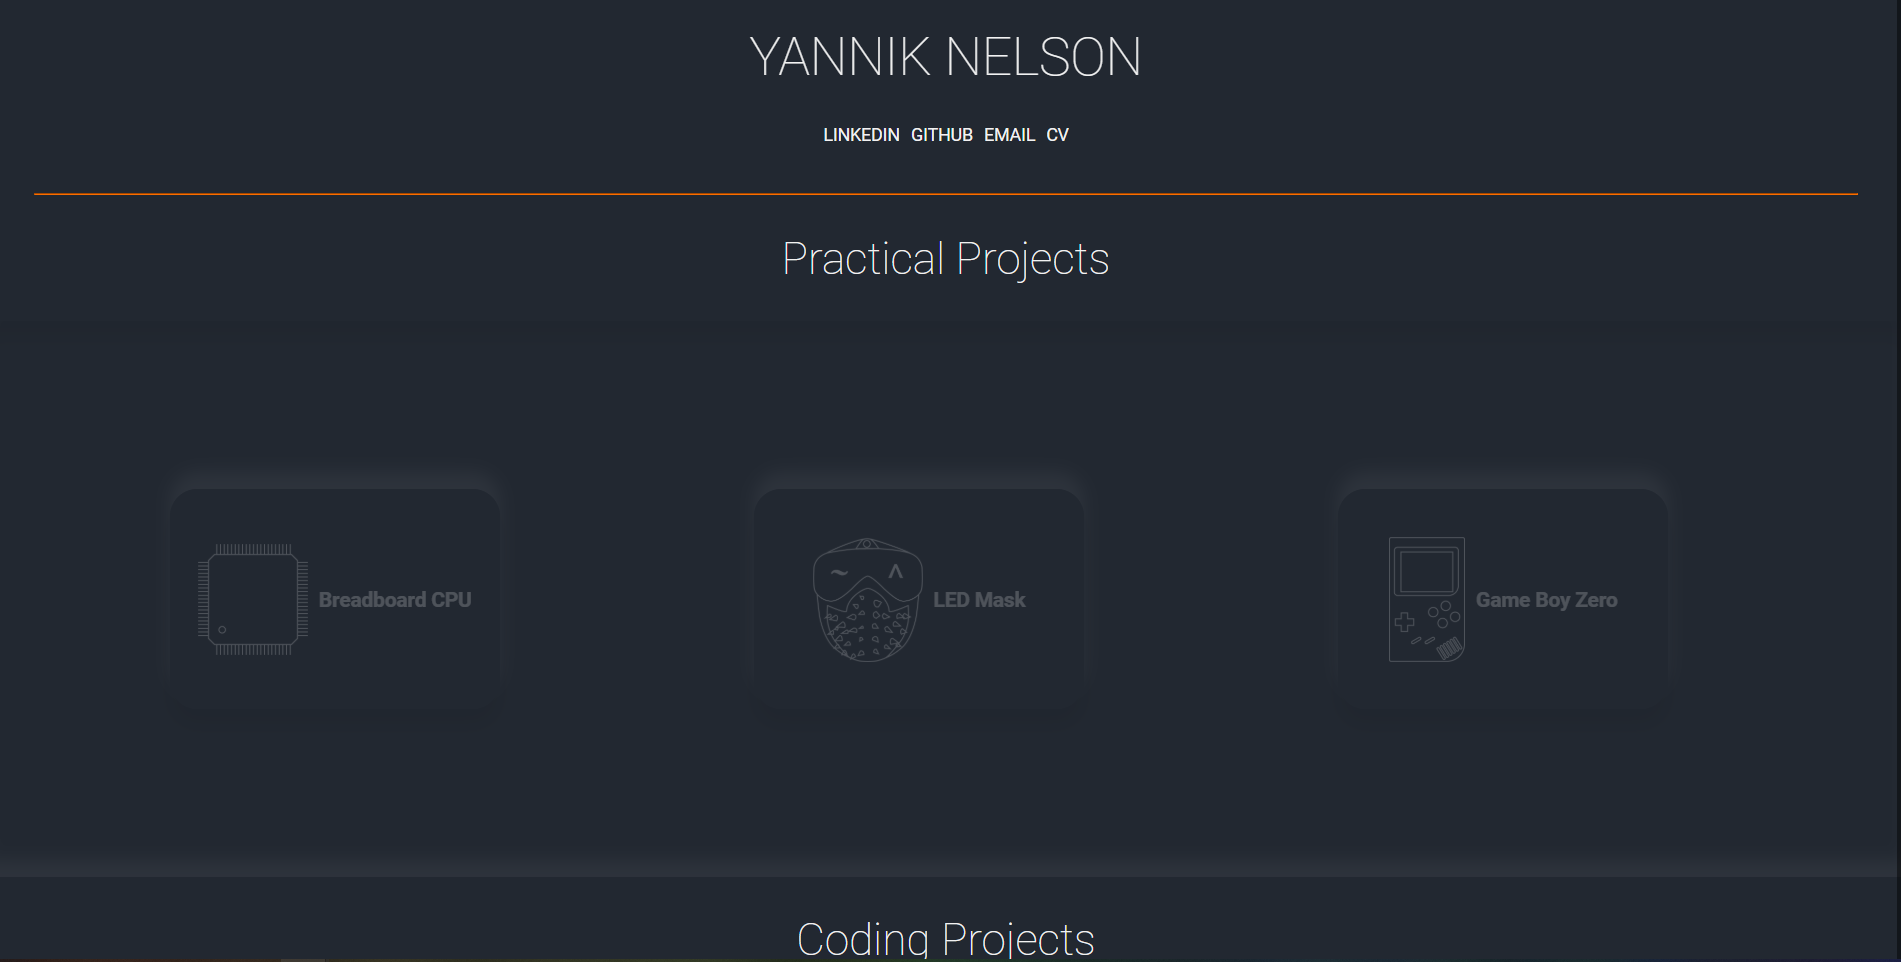
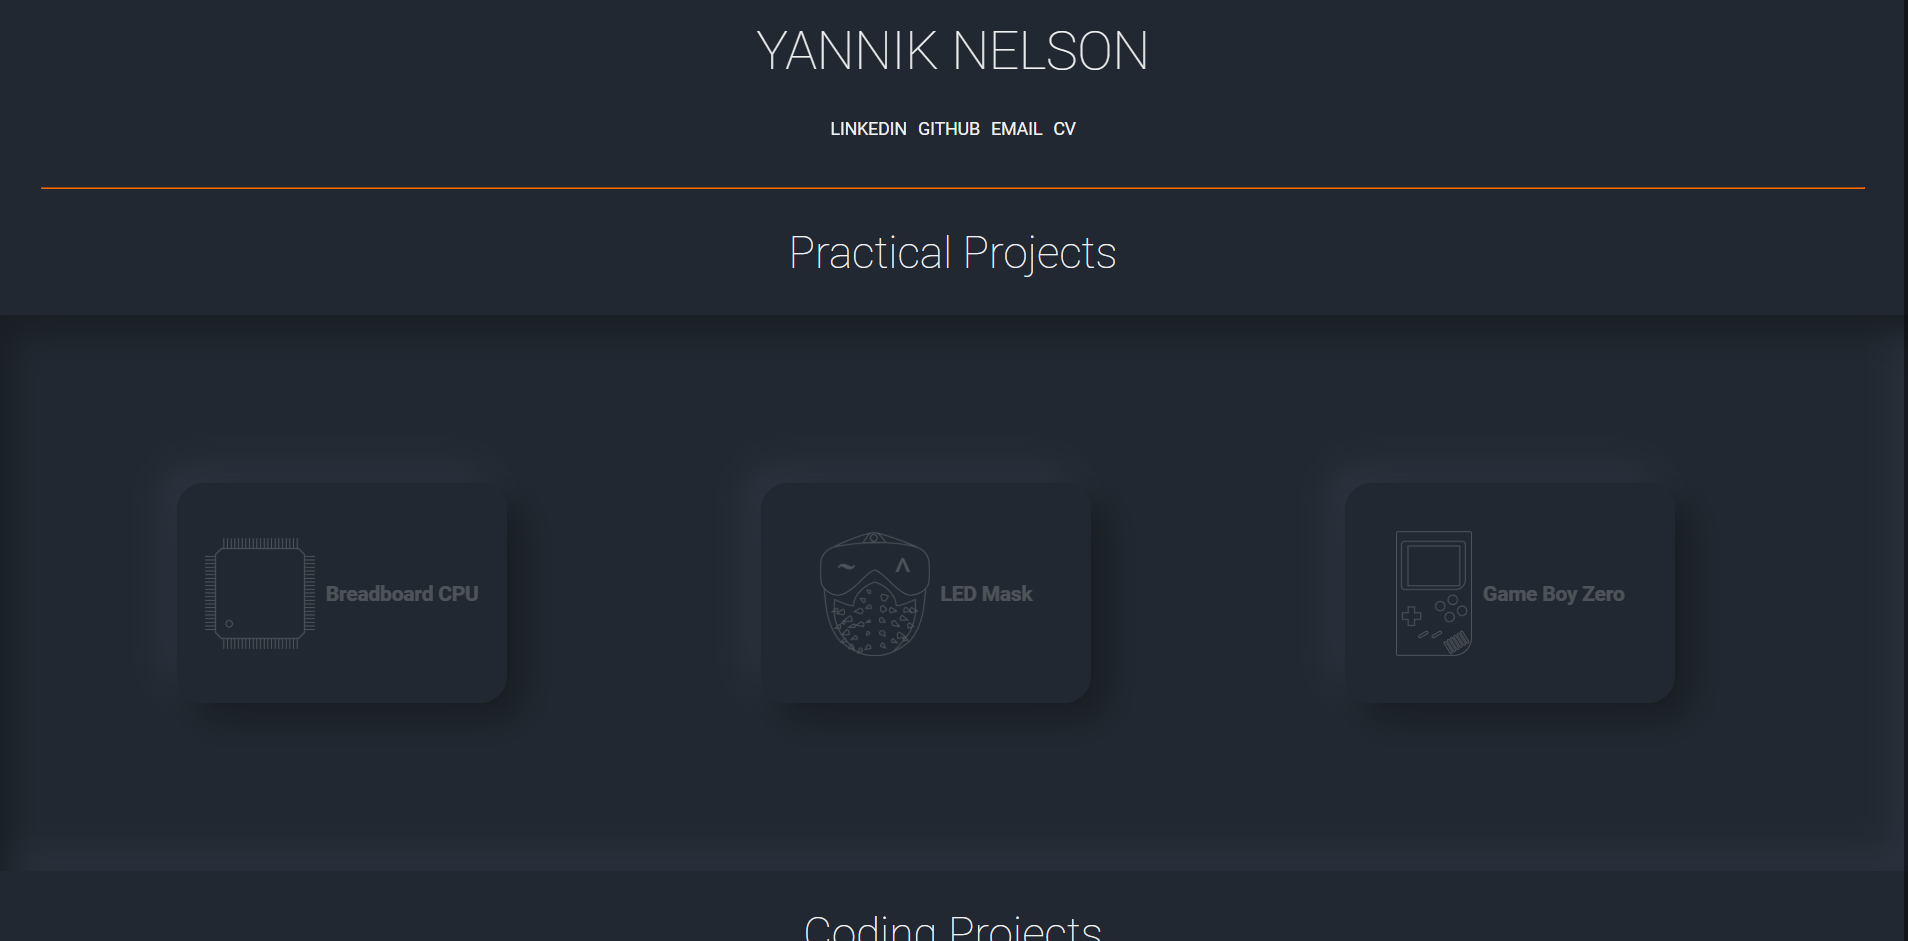
Changed Neumorphism slightly

diff --git a/CSS/main.min.css b/CSS/main.min.css
@@ -1,2 +1,2 @@
-@import url("https://fonts.googleapis.com/css2?family=Roboto:ital,wght@0,100;0,300;0,400;0,500;0,700;0,900;1,100;1,300;1,400;1,500;1,700;1,900&display=swap");*{-webkit-box-sizing:border-box;box-sizing:border-box}body{margin:0;padding:0;background-color:#222831;color:#f2f2f2;font-family:Roboto, sans-serif}::-webkit-scrollbar{width:0}#scrollbar{position:fixed;right:0;top:0;width:0.5rem;height:100%;background:#00000075}#scrollThumb{position:fixed;right:0;top:0;width:0.5rem;height:100%;background:#f96d00}#scrollThumb:before{content:"";position:absolute;left:0;top:0;width:100%;height:100%;background:#f96d00;-webkit-filter:blur(10px);filter:blur(10px)}h1,h2{font-weight:100}h1{font-size:3em}h2{font-size:2.5em}header .header-container{text-transform:uppercase;text-align:center;display:-webkit-box;display:-ms-flexbox;display:flex;-webkit-box-pack:center;-ms-flex-pack:center;justify-content:center;-webkit-box-align:end;-ms-flex-align:end;align-items:flex-end;padding:5vh;padding-top:0}header .header-container .content{padding-top:0}header .header-container .content h1 a{text-decoration:none;color:inherit}header .header-container .content .links{list-style-type:none;display:-webkit-box;display:-ms-flexbox;display:flex;-webkit-box-pack:center;-ms-flex-pack:center;justify-content:center;margin-top:1rem;width:100%}header .header-container .content .links a{text-align:center;color:#f2f2f2;text-decoration:none;padding:0 5px 0 5px}header hr{background-color:#000;margin:0 5vh 0vh 5vh;border-color:#f96d00}main{width:100%}.practical-container{display:-webkit-box;display:-ms-flexbox;display:flex;-webkit-box-pack:space-evenly;-ms-flex-pack:space-evenly;justify-content:space-evenly;-webkit-box-align:center;-ms-flex-align:center;align-items:center;-ms-flex-wrap:wrap;flex-wrap:wrap;padding:37.5px 0 37.5px 0;font-size:16px;width:100%;-webkit-box-shadow:inset 0 -15px 15px rgba(255,255,255,0.05),inset 0 15px 15px rgba(0,0,0,0.05);box-shadow:inset 0 -15px 15px rgba(255,255,255,0.05),inset 0 15px 15px rgba(0,0,0,0.05);background-color:#222831}.coding-container{display:-webkit-box;display:-ms-flexbox;display:flex;-webkit-box-orient:horizontal;-webkit-box-direction:normal;-ms-flex-direction:row;flex-direction:row;-ms-flex-wrap:wrap;flex-wrap:wrap;-webkit-box-pack:space-evenly;-ms-flex-pack:space-evenly;justify-content:space-evenly;-webkit-box-align:center;-ms-flex-align:center;align-items:center;padding:37.5px 0 37.5px 0;font-size:16px;width:100%;-webkit-box-shadow:inset 0 -15px 15px rgba(255,255,255,0.05),inset 0 15px 15px rgba(0,0,0,0.05);box-shadow:inset 0 -15px 15px rgba(255,255,255,0.05),inset 0 15px 15px rgba(0,0,0,0.05);background-color:#222831}.coding-container .coding-row{display:-webkit-box;display:-ms-flexbox;display:flex;width:100%;-webkit-box-pack:space-evenly;-ms-flex-pack:space-evenly;justify-content:space-evenly;-webkit-box-align:center;-ms-flex-align:center;align-items:center}.under-construction{width:300px;height:200px;position:absolute;z-index:2}.card{-ms-flex-preferred-size:20%;flex-basis:20%;position:relative;margin:15px}.card .face{width:300px;height:200px;-webkit-transition:0.5s;transition:0.5s;border-radius:25px}.card .face.card-top{position:relative;color:#fff;background:#222831;display:-webkit-box;display:-ms-flexbox;display:flex;-webkit-box-pack:center;-ms-flex-pack:center;justify-content:center;-webkit-box-align:center;-ms-flex-align:center;align-items:center;z-index:1;-webkit-transform:translateY(100px);transform:translateY(100px);overflow:hidden}.card .face.card-top .content{display:-webkit-box;display:-ms-flexbox;display:flex;-webkit-box-pack:center;-ms-flex-pack:center;justify-content:center;-webkit-box-align:center;-ms-flex-align:center;align-items:center;opacity:0.2;-webkit-transition:0.2s;transition:0.2s;text-align:left}.card .face.card-top .content img{max-width:100px;max-height:113.84px}.card .face.card-top .content h3{padding-left:10px;max-width:150px;text-align:center}.card .face.card-descrip{position:relative;background:#222831;display:-webkit-box;display:-ms-flexbox;display:flex;-webkit-box-orient:vertical;-webkit-box-direction:normal;-ms-flex-direction:column;flex-direction:column;-webkit-box-pack:center;-ms-flex-pack:center;justify-content:center;-webkit-box-align:center;-ms-flex-align:center;align-items:center;padding:20px;-webkit-box-sizing:border-box;box-sizing:border-box;-webkit-transform:translateY(-100px);transform:translateY(-100px);color:#f2f2f2}.card .face.card-descrip .cardshadow{width:300px;height:200px;-webkit-transition:0.5s;transition:0.5s;position:absolute;border-radius:25px;-webkit-box-shadow:0 -15px 15px rgba(255,255,255,0.05),0 15px 15px rgba(0,0,0,0.05);box-shadow:0 -15px 15px rgba(255,255,255,0.05),0 15px 15px rgba(0,0,0,0.05);z-index:-1}.card .face.card-descrip p{margin:0;padding:0;opacity:0.5}.card .face.card-descrip a{margin:10px 0 0;display:inline-block;text-decoration:none;color:#f2f2f2;font-weight:900;padding:5px;border:1px solid #f2f2f2;opacity:0.5}.card .face.card-descrip a:hover{background:#333}.card:hover .face.card-top{opacity:0}.card:hover .face.card-top .content{opacity:0}.card:hover .face.card-descrip .cardshadow{-webkit-box-shadow:inset 0 -15px 15px rgba(255,255,255,0.05),inset 0 15px 15px rgba(0,0,0,0.05);box-shadow:inset 0 -15px 15px rgba(255,255,255,0.05),inset 0 15px 15px rgba(0,0,0,0.05)}
+@import url("https://fonts.googleapis.com/css2?family=Roboto:ital,wght@0,100;0,300;0,400;0,500;0,700;0,900;1,100;1,300;1,400;1,500;1,700;1,900&display=swap");*{-webkit-box-sizing:border-box;box-sizing:border-box}body{margin:0;padding:0;background-color:#222831;color:#f2f2f2;font-family:Roboto, sans-serif}::-webkit-scrollbar{width:0}#scrollbar{position:fixed;right:0;top:0;width:0.5rem;height:100%;background:#00000075}#scrollThumb{position:fixed;right:0;top:0;width:0.5rem;height:100%;background:#f96d00}#scrollThumb:before{content:"";position:absolute;left:0;top:0;width:100%;height:100%;background:#f96d00;-webkit-filter:blur(10px);filter:blur(10px)}h1,h2{font-weight:100}h1{font-size:3em}h2{font-size:2.5em}header .header-container{text-transform:uppercase;text-align:center;display:-webkit-box;display:-ms-flexbox;display:flex;-webkit-box-pack:center;-ms-flex-pack:center;justify-content:center;-webkit-box-align:end;-ms-flex-align:end;align-items:flex-end;padding:5vh;padding-top:0}header .header-container .content{padding-top:0}header .header-container .content h1 a{text-decoration:none;color:inherit}header .header-container .content .links{list-style-type:none;display:-webkit-box;display:-ms-flexbox;display:flex;-webkit-box-pack:center;-ms-flex-pack:center;justify-content:center;margin-top:1rem;width:100%}header .header-container .content .links a{text-align:center;color:#f2f2f2;text-decoration:none;padding:0 5px 0 5px}header hr{background-color:#000;margin:0 5vh 0vh 5vh;border-color:#f96d00}main{width:100%}.practical-container{display:-webkit-box;display:-ms-flexbox;display:flex;-webkit-box-pack:space-evenly;-ms-flex-pack:space-evenly;justify-content:space-evenly;-webkit-box-align:center;-ms-flex-align:center;align-items:center;-ms-flex-wrap:wrap;flex-wrap:wrap;padding:37.5px 0 37.5px 0;font-size:16px;width:100%;-webkit-box-shadow:inset 15px 15px 30px #181d23,inset -15px -15px 30px #2c333f;box-shadow:inset 15px 15px 30px #181d23,inset -15px -15px 30px #2c333f;background-color:#222831}.coding-container{display:-webkit-box;display:-ms-flexbox;display:flex;-webkit-box-orient:horizontal;-webkit-box-direction:normal;-ms-flex-direction:row;flex-direction:row;-ms-flex-wrap:wrap;flex-wrap:wrap;-webkit-box-pack:space-evenly;-ms-flex-pack:space-evenly;justify-content:space-evenly;-webkit-box-align:center;-ms-flex-align:center;align-items:center;padding:37.5px 0 37.5px 0;font-size:16px;width:100%;-webkit-box-shadow:inset 15px 15px 30px #181d23,inset -15px -15px 30px #2c333f;box-shadow:inset 15px 15px 30px #181d23,inset -15px -15px 30px #2c333f;background-color:#222831}.coding-container .coding-row{display:-webkit-box;display:-ms-flexbox;display:flex;width:100%;-webkit-box-pack:space-evenly;-ms-flex-pack:space-evenly;justify-content:space-evenly;-webkit-box-align:center;-ms-flex-align:center;align-items:center}.under-construction{width:300px;height:200px;position:absolute;z-index:2}.card{-ms-flex-preferred-size:20%;flex-basis:20%;position:relative;margin:15px}.card .face{width:300px;height:200px;-webkit-transition:0.5s;transition:0.5s;border-radius:25px}.card .face.card-top{position:relative;color:#fff;background:#222831;display:-webkit-box;display:-ms-flexbox;display:flex;-webkit-box-pack:center;-ms-flex-pack:center;justify-content:center;-webkit-box-align:center;-ms-flex-align:center;align-items:center;z-index:1;-webkit-transform:translateY(100px);transform:translateY(100px);overflow:hidden}.card .face.card-top .content{display:-webkit-box;display:-ms-flexbox;display:flex;-webkit-box-pack:center;-ms-flex-pack:center;justify-content:center;-webkit-box-align:center;-ms-flex-align:center;align-items:center;opacity:0.2;-webkit-transition:0.2s;transition:0.2s;text-align:left}.card .face.card-top .content img{max-width:100px;max-height:113.84px}.card .face.card-top .content h3{padding-left:10px;max-width:150px;text-align:center}.card .face.card-descrip{position:relative;background:#222831;display:-webkit-box;display:-ms-flexbox;display:flex;-webkit-box-orient:vertical;-webkit-box-direction:normal;-ms-flex-direction:column;flex-direction:column;-webkit-box-pack:center;-ms-flex-pack:center;justify-content:center;-webkit-box-align:center;-ms-flex-align:center;align-items:center;padding:20px;-webkit-box-sizing:border-box;box-sizing:border-box;-webkit-transform:translateY(-100px);transform:translateY(-100px);color:#f2f2f2}.card .face.card-descrip .cardshadow{width:300px;height:200px;-webkit-transition:0.5s;transition:0.5s;position:absolute;border-radius:25px;-webkit-box-shadow:15px 15px 30px #181d23,-15px -15px 30px #2c333f;box-shadow:15px 15px 30px #181d23,-15px -15px 30px #2c333f;z-index:-1}.card .face.card-descrip p{margin:0;padding:0;opacity:0.5}.card .face.card-descrip a{margin:10px 0 0;display:inline-block;text-decoration:none;color:#f2f2f2;font-weight:900;padding:5px;border:1px solid #f2f2f2;opacity:0.5}.card .face.card-descrip a:hover{background:#333}.card:hover .face.card-top{opacity:0;visibility:hidden}.card:hover .face.card-top .content{opacity:0}.card:hover .face.card-descrip .cardshadow{-webkit-box-shadow:inset 15px 15px 30px #181d23,inset -15px -15px 30px #2c333f;box-shadow:inset 15px 15px 30px #181d23,inset -15px -15px 30px #2c333f}
 /*# sourceMappingURL=main.min.css.map */

diff --git a/CSS/blogPost.min.css b/CSS/blogPost.min.css
@@ -1,2 +1,2 @@
-*{-webkit-box-sizing:border-box;box-sizing:border-box}body{margin:0;padding:0;width:100vw}main{margin:none;padding:none;width:100%;height:100%}main h2{text-align:left;padding-left:5vw}main .examples{display:-webkit-box;display:-ms-flexbox;display:flex;-webkit-box-pack:space-evenly;-ms-flex-pack:space-evenly;justify-content:space-evenly;-webkit-box-align:center;-ms-flex-align:center;align-items:center;-ms-flex-wrap:wrap;flex-wrap:wrap;padding:37.5px 0 37.5px 0;font-size:16px;width:100%;-webkit-box-shadow:0 50px 50px -50px #000 inset, 0 -50px 50px -50px #000 inset;box-shadow:0 50px 50px -50px #000 inset, 0 -50px 50px -50px #000 inset;background-color:#222831}main .example{display:-webkit-box;display:-ms-flexbox;display:flex;-webkit-box-orient:vertical;-webkit-box-direction:normal;-ms-flex-direction:column;flex-direction:column;-ms-flex-wrap:wrap;flex-wrap:wrap;width:500px;color:black;margin-bottom:5vh}main .example img{width:500px;height:none}main .extext{background:#f2f2f2}main .extext h3{color:#222831;padding:0 0 0 3%}main .extext p{padding:0 3% 2% 3%}main .content{margin-left:3vw;margin-right:3vw;height:100%}main .content .right{float:right}main .content .left{float:left}main .content .paragraph{display:-webkit-box;display:-ms-flexbox;display:flex;-webkit-box-shadow:0 20px 50px rgba(0,0,0,0.8);box-shadow:0 20px 50px rgba(0,0,0,0.8);margin-bottom:5vh;max-width:90%;background:#f2f2f2}main .content .paragraph img{max-height:40vh}main .content .paragraph .blogText{min-height:-webkit-fit-content;min-height:-moz-fit-content;min-height:fit-content}main .content .paragraph .blogText h3{color:#222831;padding:0 0 0 3%}main .content .paragraph .blogText p{color:#222831;padding:3% 3% 3% 3%;margin:0}main .content .paragraph .blogText ul,main .content .paragraph .blogText ol{color:#222831;margin-left:2%;margin-right:2%}main .content .paragraph .blogText .with_header{padding-top:0}main .content .paragraph .blogText .with_list_bellow{padding-bottom:0}main .content .paragraph .blogText .with_list_above{padding-top:0}main .content .paragraph .blogText a{text-decoration:none;color:#222831}main .content .paragraph .blogText a:hover{font-weight:800}main .content .paragraph .second{-webkit-box-ordinal-group:3;-ms-flex-order:2;order:2}@media screen and (max-width: 1350px), screen and (max-width: 600px){main .content{margin:auto;margin-bottom:5vh;display:-webkit-box;display:-ms-flexbox;display:flex;-webkit-box-orient:vertical;-webkit-box-direction:normal;-ms-flex-direction:column;flex-direction:column;width:100%}main .examples{margin:auto;display:-webkit-box;display:-ms-flexbox;display:flex;-webkit-box-orient:vertical;-webkit-box-direction:normal;-ms-flex-direction:column;flex-direction:column;-webkit-box-pack:justify;-ms-flex-pack:justify;justify-content:space-between;-webkit-box-align:center;-ms-flex-align:center;align-items:center;width:100%}main .example{margin:15px;width:360px}main .example img{width:360px}main .paragraph{height:-webkit-fit-content;height:-moz-fit-content;height:fit-content;max-height:none;max-width:none;width:360px;float:none;-webkit-box-orient:vertical;-webkit-box-direction:normal;-ms-flex-direction:column;flex-direction:column;max-width:-webkit-min-content;max-width:-moz-min-content;max-width:min-content;margin:auto;margin-top:0}main .paragraph img{-webkit-box-ordinal-group:2;-ms-flex-order:1;order:1;max-height:none;max-width:none;width:360px;height:none;float:none}main .paragraph .blogText{-webkit-box-ordinal-group:3;-ms-flex-order:2;order:2;-webkit-box-shadow:0 20px 50px rgba(0,0,0,0.8);box-shadow:0 20px 50px rgba(0,0,0,0.8)}main h2{text-align:center;padding-left:0}}
+*{-webkit-box-sizing:border-box;box-sizing:border-box}body{margin:0;padding:0;width:100vw}main{margin:none;padding:none;width:100%;height:100%}main h2{text-align:left;padding-left:5vw}main .examples{display:-webkit-box;display:-ms-flexbox;display:flex;-webkit-box-pack:space-evenly;-ms-flex-pack:space-evenly;justify-content:space-evenly;-webkit-box-align:center;-ms-flex-align:center;align-items:center;-ms-flex-wrap:wrap;flex-wrap:wrap;padding:37.5px 0 37.5px 0;font-size:16px;width:100%;-webkit-box-shadow:inset 15px 15px 30px #181d23,inset -15px -15px 30px #2c333f;box-shadow:inset 15px 15px 30px #181d23,inset -15px -15px 30px #2c333f;background-color:#222831}main .example{display:-webkit-box;display:-ms-flexbox;display:flex;-webkit-box-orient:vertical;-webkit-box-direction:normal;-ms-flex-direction:column;flex-direction:column;-ms-flex-wrap:wrap;flex-wrap:wrap;width:500px;color:black;margin-bottom:5vh}main .example img{width:500px;height:none}main .extext{background:#f2f2f2}main .extext h3{color:#222831;padding:0 0 0 3%}main .extext p{padding:0 3% 2% 3%}main .content{margin-left:3vw;margin-right:3vw;height:100%}main .content .right{float:right}main .content .left{float:left}main .content .paragraph{display:-webkit-box;display:-ms-flexbox;display:flex;-webkit-box-shadow:0 20px 50px rgba(0,0,0,0.8);box-shadow:0 20px 50px rgba(0,0,0,0.8);margin-bottom:5vh;max-width:90%;background:#f2f2f2}main .content .paragraph img{max-height:40vh}main .content .paragraph .blogText{min-height:-webkit-fit-content;min-height:-moz-fit-content;min-height:fit-content}main .content .paragraph .blogText h3{color:#222831;padding:0 0 0 3%}main .content .paragraph .blogText p{color:#222831;padding:3% 3% 3% 3%;margin:0}main .content .paragraph .blogText ul,main .content .paragraph .blogText ol{color:#222831;margin-left:2%;margin-right:2%}main .content .paragraph .blogText .with_header{padding-top:0}main .content .paragraph .blogText .with_list_bellow{padding-bottom:0}main .content .paragraph .blogText .with_list_above{padding-top:0}main .content .paragraph .blogText a{text-decoration:none;color:#222831}main .content .paragraph .blogText a:hover{font-weight:800}main .content .paragraph .second{-webkit-box-ordinal-group:3;-ms-flex-order:2;order:2}@media screen and (max-width: 1350px), screen and (max-width: 600px){main .content{margin:auto;margin-bottom:5vh;display:-webkit-box;display:-ms-flexbox;display:flex;-webkit-box-orient:vertical;-webkit-box-direction:normal;-ms-flex-direction:column;flex-direction:column;width:100%}main .examples{margin:auto;display:-webkit-box;display:-ms-flexbox;display:flex;-webkit-box-orient:vertical;-webkit-box-direction:normal;-ms-flex-direction:column;flex-direction:column;-webkit-box-pack:justify;-ms-flex-pack:justify;justify-content:space-between;-webkit-box-align:center;-ms-flex-align:center;align-items:center;width:100%}main .example{margin:15px;width:360px}main .example img{width:360px}main .paragraph{height:-webkit-fit-content;height:-moz-fit-content;height:fit-content;max-height:none;max-width:none;width:360px;float:none;-webkit-box-orient:vertical;-webkit-box-direction:normal;-ms-flex-direction:column;flex-direction:column;max-width:-webkit-min-content;max-width:-moz-min-content;max-width:min-content;margin:auto;margin-top:0}main .paragraph img{-webkit-box-ordinal-group:2;-ms-flex-order:1;order:1;max-height:none;max-width:none;width:360px;height:none;float:none}main .paragraph .blogText{-webkit-box-ordinal-group:3;-ms-flex-order:2;order:2;-webkit-box-shadow:0 20px 50px rgba(0,0,0,0.8);box-shadow:0 20px 50px rgba(0,0,0,0.8)}main h2{text-align:center;padding-left:0}}
 /*# sourceMappingURL=blogPost.min.css.map */

diff --git a/CSS/main.scss b/CSS/main.scss
@@ -2,6 +2,8 @@ $primary-color: #222831;
 $secondary-color: #393e46;
 $tertiary-color: #f96d00;
 $light-color: #f2f2f2;
+$shadow-dark: #181d23;
+$shadow-light: #2c333f;
 
 @import url("https://fonts.googleapis.com/css2?family=Roboto:ital,wght@0,100;0,300;0,400;0,500;0,700;0,900;1,100;1,300;1,400;1,500;1,700;1,900&display=swap");
 
@@ -118,8 +120,8 @@ main {
   padding: 37.5px 0 37.5px 0;
   font-size: 16px;
   width: 100%;
-  box-shadow: inset 0 -15px 15px rgba(255, 255, 255, 0.05),
-    inset 0 15px 15px rgba(0, 0, 0, 0.05);
+  box-shadow: inset 15px 15px 30px $shadow-dark,
+    inset -15px -15px 30px $shadow-light;
   background-color: $primary-color;
 }
 
@@ -133,8 +135,8 @@ main {
   padding: 37.5px 0 37.5px 0;
   font-size: 16px;
   width: 100%;
-  box-shadow: inset 0 -15px 15px rgba(255, 255, 255, 0.05),
-    inset 0 15px 15px rgba(0, 0, 0, 0.05);
+  box-shadow: inset 15px 15px 30px $shadow-dark,
+    inset -15px -15px 30px $shadow-light;
   background-color: $primary-color;
 
   .coding-row {
@@ -215,8 +217,7 @@ main {
       transition: 0.5s;
       position: absolute;
       border-radius: 25px;
-      box-shadow: 0 -15px 15px rgba(255, 255, 255, 0.05),
-        0 15px 15px rgba(0, 0, 0, 0.05);
+      box-shadow: 15px 15px 30px $shadow-dark, -15px -15px 30px $shadow-light;
       z-index: -1;
     }
 
@@ -247,6 +248,7 @@ main {
       // background: $tertiary-color;
       //transform: translateY(0px);
       opacity: 0;
+      visibility: hidden;
 
       .content {
         opacity: 0;
@@ -272,8 +274,8 @@ main {
       .cardshadow {
         //height: 400px;
         //transform: translateY(-100px);
-        box-shadow: inset 0 -15px 15px rgba(255, 255, 255, 0.05),
-          inset 0 15px 15px rgba(0, 0, 0, 0.05);
+        box-shadow: inset 15px 15px 30px $shadow-dark,
+          inset -15px -15px 30px $shadow-light;
       }
     }
   }

diff --git a/CSS/blogPost.scss b/CSS/blogPost.scss
@@ -2,6 +2,8 @@ $primary-color: #222831;
 $secondary-color: #393e46;
 $tertiary-color: #f96d00;
 $light-color: #f2f2f2;
+$shadow-dark: #181d23;
+$shadow-light: #2c333f;
 
 * {
   box-sizing: border-box;
@@ -34,7 +36,8 @@ main {
     padding: 37.5px 0 37.5px 0;
     font-size: 16px;
     width: 100%;
-    box-shadow: 0 50px 50px -50px #000 inset, 0 -50px 50px -50px #000 inset;
+    box-shadow: inset 15px 15px 30px $shadow-dark,
+      inset -15px -15px 30px $shadow-light;
     background-color: $primary-color;
   }
 
